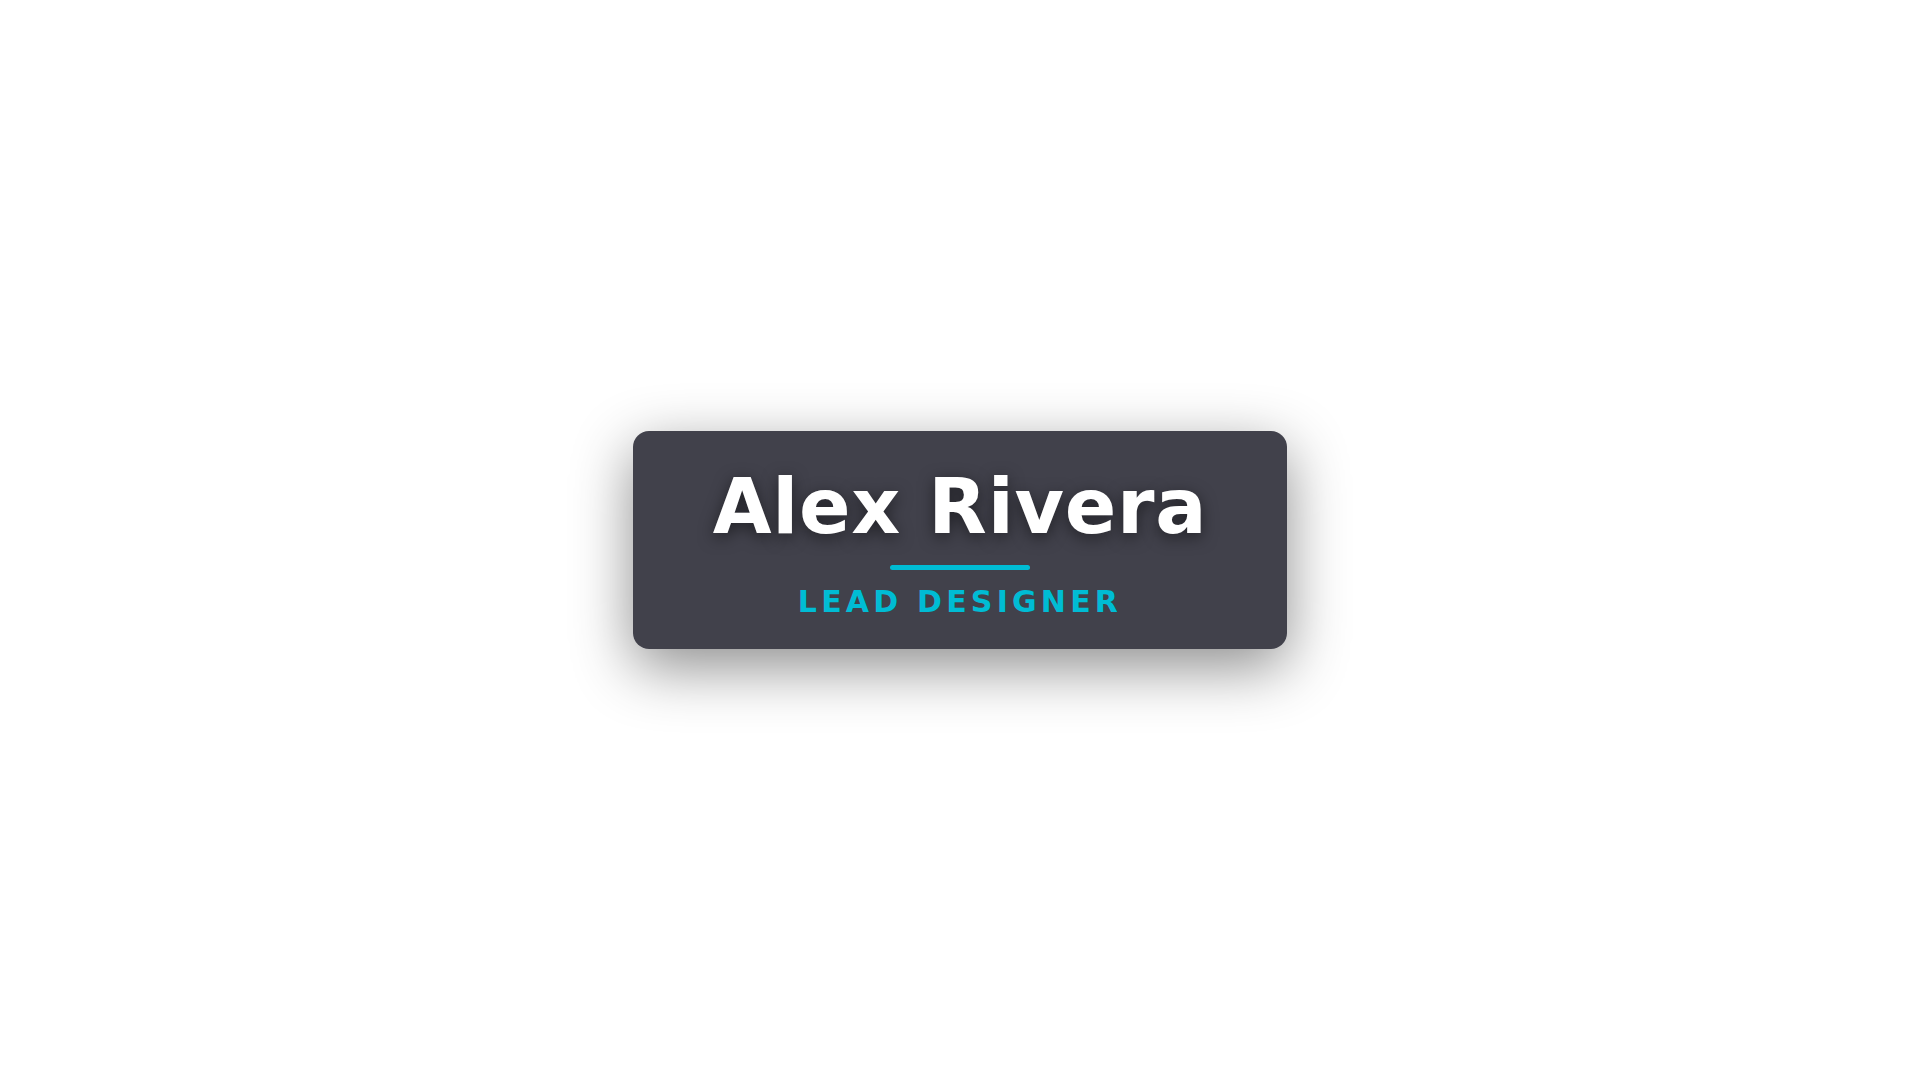
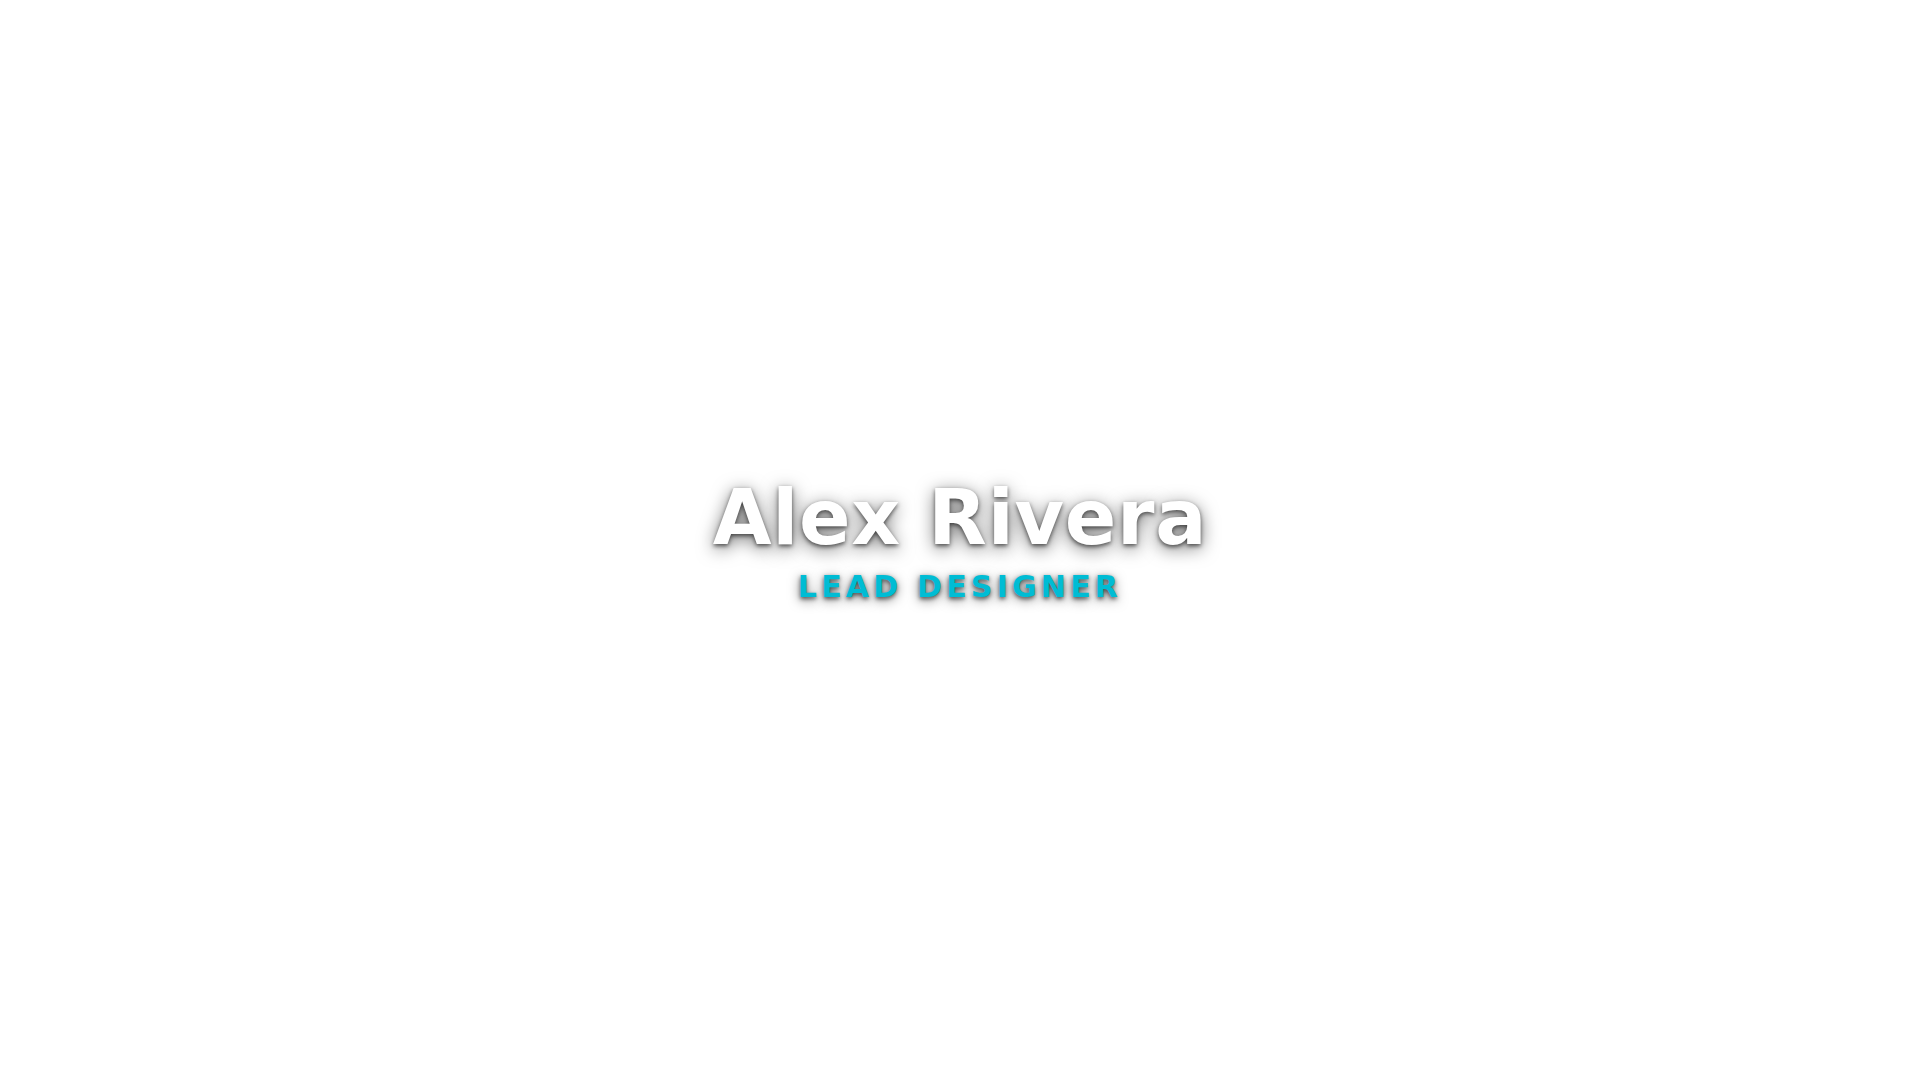
WO-589: confetti center — drop the box and underline, text-shadow for legibility

Changed region(s): [[0.3125, 0.3972, 0.6875, 0.6417]]

diff --git a/template/lower-thirds/lt-confetti-center.html b/template/lower-thirds/lt-confetti-center.html
@@ -25,12 +25,8 @@
             flex-direction: column;
             align-items: center;
             text-align: center;
-            min-width: 560px;
-            max-width: 1500px;
-            padding: 34px 80px 30px;
-            background: rgba(12, 12, 24, 0.78);
-            border-radius: 16px;
-            box-shadow: 0 18px 60px rgba(0,0,0,0.45);
+            gap: 10px;
+            max-width: 1700px;
             opacity: 0;
         }
         h1 {
@@ -39,14 +35,7 @@
             color: var(--text, #fff);
             letter-spacing: 0.01em;
             line-height: 1.1;
-            text-shadow: 0 4px 16px rgba(0,0,0,0.5);
-        }
-        .rule {
-            width: 140px;
-            height: 5px;
-            margin: 16px 0 14px;
-            border-radius: 3px;
-            background: var(--primary, #ffc107);
+            text-shadow: 0 2px 4px rgba(0,0,0,0.6), 0 4px 18px rgba(0,0,0,0.55);
         }
         p {
             font-size: 30px;
@@ -54,6 +43,7 @@
             color: var(--primary, #ffc107);
             text-transform: uppercase;
             letter-spacing: 0.14em;
+            text-shadow: 0 2px 4px rgba(0,0,0,0.6), 0 3px 12px rgba(0,0,0,0.5);
         }
         #confetti {
             position: absolute;
@@ -68,7 +58,6 @@
     <main class="lt-confetti-center">
         <div class="graphic">
             <h1>Name</h1>
-            <div class="rule"></div>
             <p>Title</p>
         </div>
     </main>
@@ -197,19 +186,15 @@
                 return new Promise(function(resolve) {
                     var g = document.querySelector('.lt-confetti-center .graphic');
                     var h1 = g.querySelector('h1');
-                    var rule = g.querySelector('.rule');
                     var p = g.querySelector('p');
                     Confetti.clear();
                     var tl = new gsap.timeline({ onComplete: resolve });
-                    tl.set(g, { opacity: 1, scaleX: 0, scaleY: 1, y: 0 })
+                    tl.set(g, { opacity: 1, scale: 1, y: 0 })
                       .set([h1, p], { opacity: 0 })
-                      .set(rule, { scaleX: 0 })
-                      .to(g, { scaleX: 1, duration: 0.45, ease: 'power3.out' })
-                      .addLabel('reveal', '-=0.05')
+                      .addLabel('reveal')
                       .fromTo(h1, { scale: 0.4, opacity: 0 }, { scale: 1, opacity: 1, duration: 0.6, ease: 'back.out(2.2)' }, 'reveal')
                       .call(function () { Confetti.burst(h1); }, null, 'reveal+=0.12')
-                      .to(rule, { scaleX: 1, duration: 0.45, ease: 'power2.out' }, 'reveal+=0.25')
-                      .fromTo(p, { opacity: 0, y: 12 }, { opacity: 1, y: 0, duration: 0.45, ease: 'power2.out' }, 'reveal+=0.4');
+                      .fromTo(p, { opacity: 0, y: 12 }, { opacity: 1, y: 0, duration: 0.45, ease: 'power2.out' }, 'reveal+=0.35');
                 });
             },
             animateOut: function() {

diff --git a/work/work-orders/589_WO_lt_confetti_center_template.md b/work/work-orders/589_WO_lt_confetti_center_template.md
@@ -1,6 +1,6 @@
 # WO-589 — Lower-thirds engine template: "Confetti Center" (screen-centered, confetti on title reveal)
 
-**Status: IMPLEMENTED 03.10.26 — rendered in headless Chrome through the real engine (centering, burst, studio hold-in, stop mid-burst, replay all probed); offline suite has one unrelated failure (§3). Server not restarted; owner: look at it on PRV/PGM through Caspar CEF.**
+**Status: IMPLEMENTED 03.10.26, round 2 same day (§4: no box, no underline) — rendered in headless Chrome through the real engine (centering, burst, studio hold-in, stop mid-burst, replay all probed); offline suite has one unrelated failure (§3). Server not restarted; owner: look at it on PRV/PGM through Caspar CEF.**
 
 Owner, 03.10: *"i need a template based on the lower thirds engine that is centered on the screen and has a confeti animation on the title reveal"*
 
@@ -39,3 +39,15 @@ Headless Chrome (`src/media/headless-chrome-cdp`), real template file:
 - Prettier `--check` warns on `routes-lower-thirds.js`, `lt-param-registry.js` and `scene-template-cg.js`, but those three already warn at HEAD (pre-existing). `template-scan.js` stays clean.
 
 **Owner QA:** load it on a channel through Caspar CEF, check confetti smoothness at broadcast frame rate, and decide whether the confetti should sit above the card (current) or behind it.
+
+## 4. Round 2 (03.10): no box, no underline
+
+Owner: *"no box underneath the name and title and also no underline"*.
+
+- Removed the card (background, radius, shadow, padding/min-width) and the `.rule` element plus its tween. Because the dark card no longer sits behind the text, the title and subtitle get a two-layer text shadow (tight 2–4 px + soft 12–18 px) so they stay legible over arbitrary video.
+- The reveal is now: title pops (`back.out`), confetti fires 0.12 s in, subtitle rises at +0.35 s. The card-unfold step is gone (nothing left to unfold), so `animateIn` resolves at ~0.8 s.
+- **Re-verified** in headless Chrome over a blue→gold→white gradient background:
+  - center still (960, 540) with `position: left` + margins passed in;
+  - no errors; text legible on dark and light areas;
+  - confetti px: hold-in 0 / mid-burst ~13 000 / after stop 0 / replay ~12 000.
+- Thumbnail regenerated.
